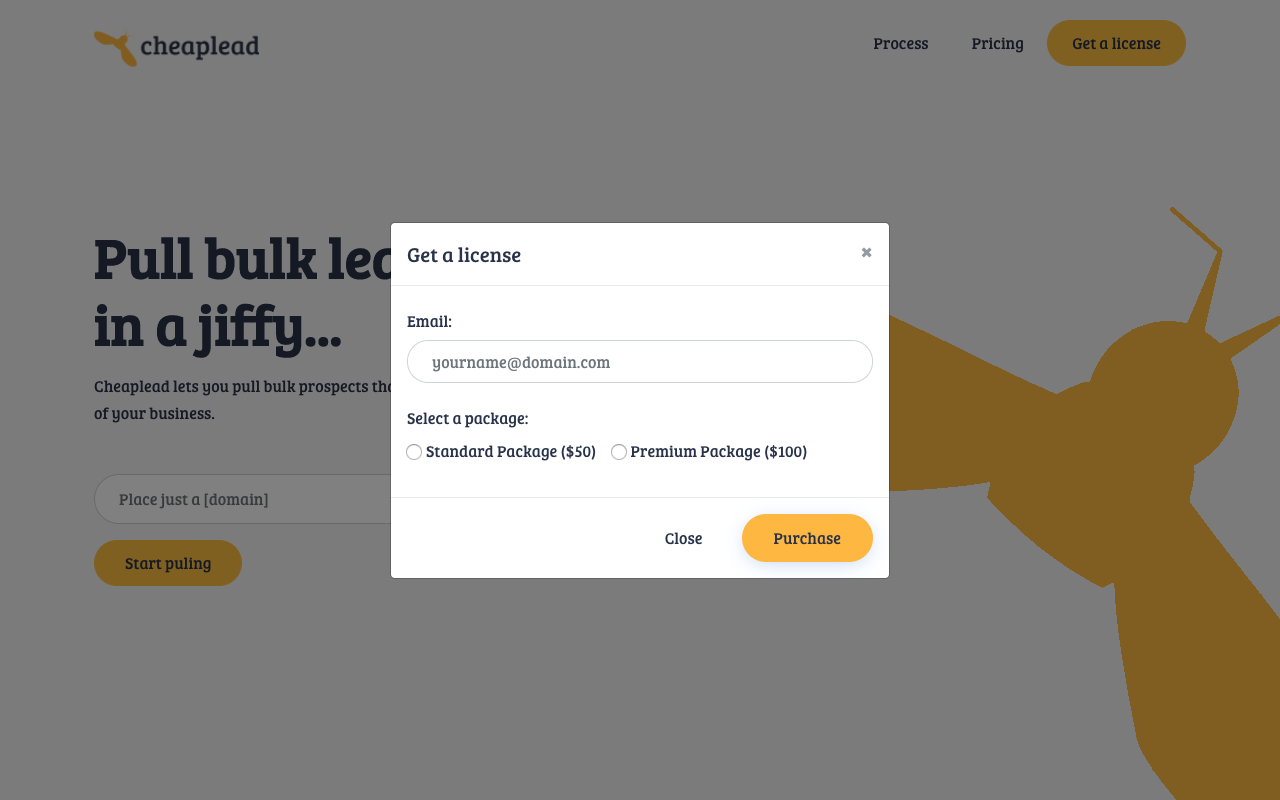
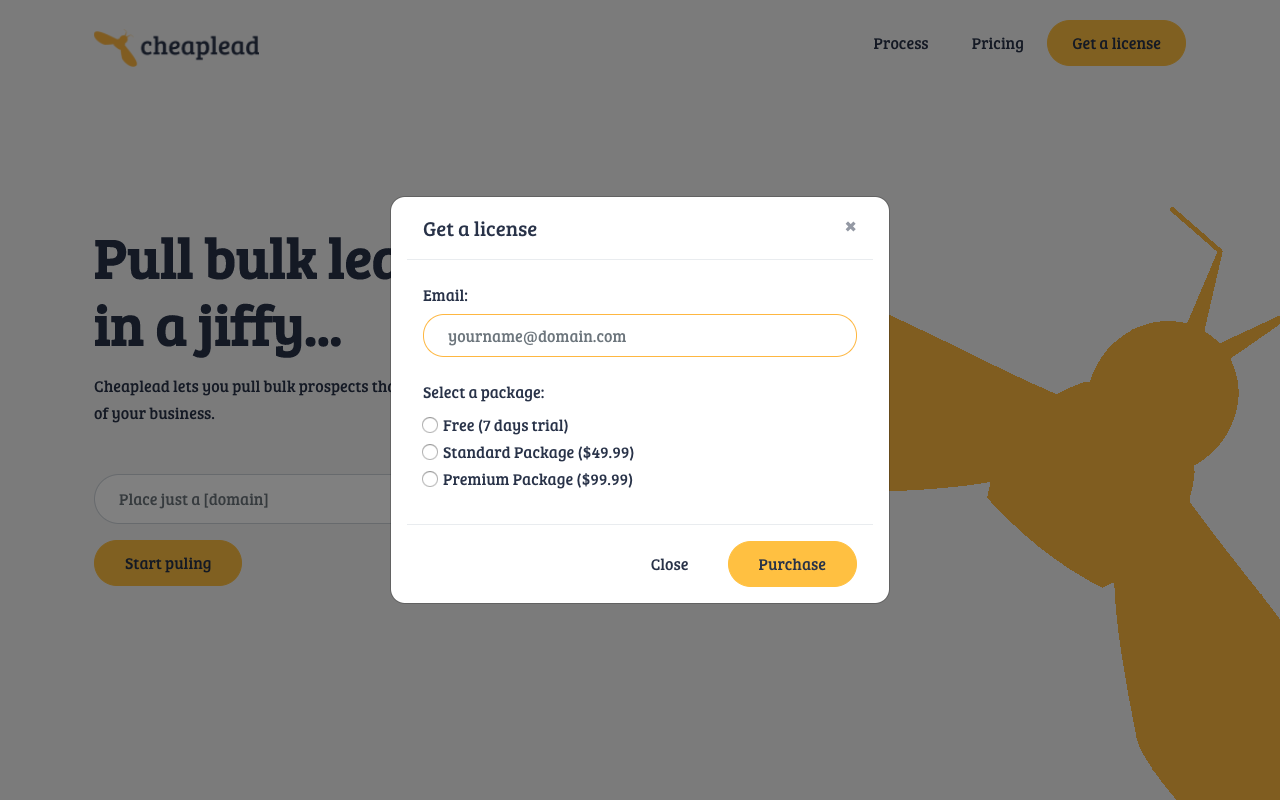
Edited the modal

Changed region(s): [[0.2812, 0.2188, 0.7188, 0.625], [0.2812, 0.625, 0.7188, 0.7812]]

diff --git a/index.html b/index.html
@@ -85,6 +85,10 @@
       overflow-x: hidden !important;
       /* background: #f6f6f6; */
     }
+
+    .modal-content {
+      border-radius: 15px;
+    }
   </style>
 </head>
 
@@ -94,14 +98,14 @@
     <div class="modal fade" id="getALicenseCenter" tabindex="-1" role="dialog" aria-labelledby="getALicenseCenterTitle"
       aria-hidden="true">
       <div class="modal-dialog modal-dialog-centered" role="document">
-        <div class="modal-content">
+        <div class="modal-content px-3">
           <div class="modal-header">
             <h5 class="modal-title" id="getALicenseLongTitle">Get a license</h5>
             <button type="button" class="close" data-dismiss="modal" aria-label="Close">
               <span aria-hidden="true">&times;</span>
             </button>
           </div>
-          <form action="" method="dialog">
+          <form action="https://api.cheaplead.org/getLicense/validate" method="POST">
             <div class="modal-body">
               <div class="form-group">
                 <label for="emailId" class="col-form-label">Email:</label>
@@ -113,14 +117,16 @@
                 <label for="emailId" class="col-form-label">Select a package:</label>
 
                 <div class="selectCon">
-                  <div class="form-check form-check-inline">
-                    <input class="form-check-input" type="radio" name="package" id="standardPackageId"
-                      value="standardPackage" required>
+                  <div class="form-check">
+                    <input class="form-check-input" type="radio" name="package" id="trialPackageId" required>
+                    <label class="form-check-label" for="trialPackageId">Free (7 days trial)</label>
+                  </div>
+                  <div class="form-check">
+                    <input class="form-check-input" type="radio" name="package" id="standardPackageId" required>
                     <label class="form-check-label" for="standardPackageId">Standard Package ($49.99)</label>
                   </div>
-                  <div class="form-check form-check-inline">
-                    <input class="form-check-input" type="radio" name="package" id="premiumPackageId"
-                      value="premiumPackage" required>
+                  <div class="form-check">
+                    <input class="form-check-input" type="radio" name="package" id="premiumPackageId" required>
                     <label class="form-check-label" for="premiumPackageId">Premium Package ($99.99)</label>
                   </div>
                 </div>
@@ -128,7 +134,7 @@
             </div>
             <div class="modal-footer">
               <button type="button" class="btn" data-dismiss="modal" onclick="$('form input').val('')">Close</button>
-              <button type="submit" class="btn btn-primary">Purchase</button>
+              <button type="submit" class="btn btn-warning">Purchase</button>
             </div>
           </form>
         </div>
